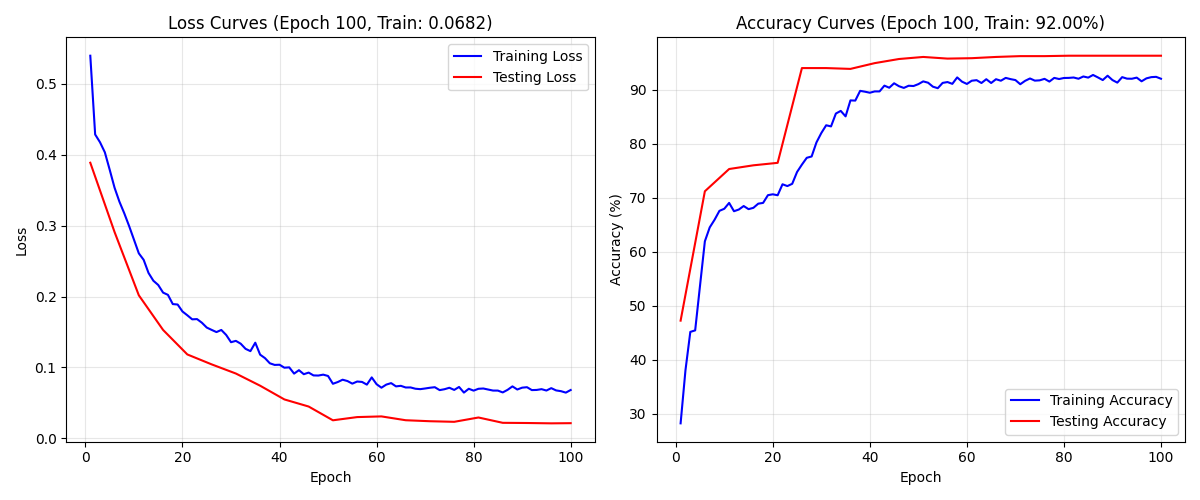
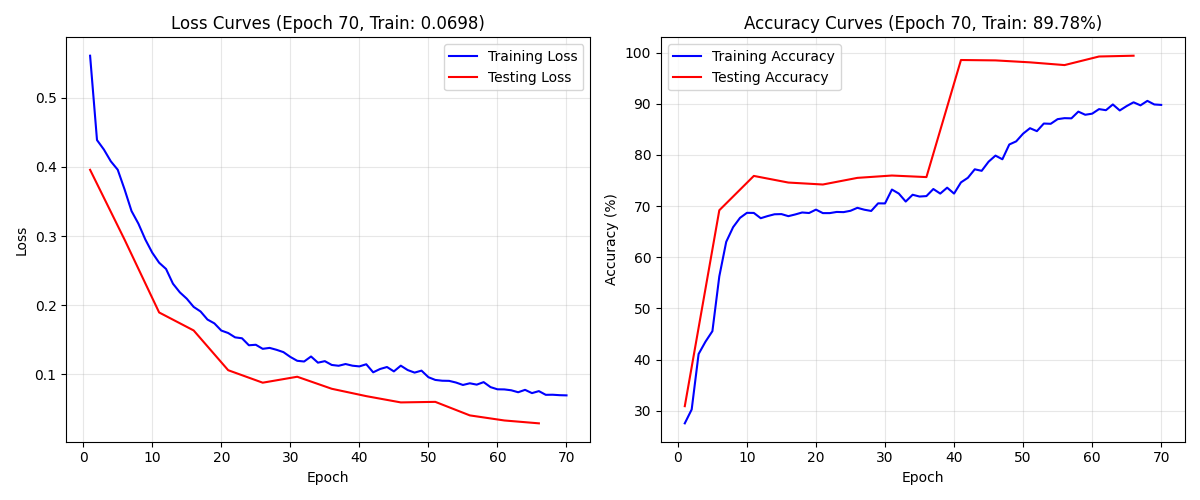
better sample selection, 99% test accuracy

diff --git a/mri-classification.py b/mri-classification.py
@@ -694,22 +694,57 @@ def calculate_class_weights(dataset):
     
     return weights
 
+def get_class_samples(dataset, num_per_class=1):
+    """Select representative samples from each class in the dataset"""
+    class_samples = {}
+    class_counts = {}
+    
+    # Initialize counters for each class
+    for class_name in dataset.class_mapping.keys():
+        class_samples[class_name] = []
+        class_counts[class_name] = 0
+    
+    # Collect samples until we have enough from each class
+    for idx in range(len(dataset)):
+        image, label = dataset[idx]
+        
+        # Get class name from label
+        class_name = list(dataset.class_mapping.keys())[list(dataset.class_mapping.values()).index(label)]
+        
+        # If we need more samples from this class
+        if class_counts[class_name] < num_per_class:
+            class_samples[class_name].append((image, label))
+            class_counts[class_name] += 1
+        
+        # Exit if we have enough samples from all classes
+        if all(count >= num_per_class for count in class_counts.values()):
+            break
+    
+    # Flatten the samples list
+    samples = []
+    for class_name in class_samples:
+        samples.extend(class_samples[class_name])
+    
+    return samples
 
 def main():
     set_seed(42)
-    batch_size = 24  
+    batch_size = 32  
     device = torch.device('cuda' if torch.cuda.is_available() else 'cpu')
     print(f'Using device: {device}')
     
     # Create a dataset without normalization first
+    clip_hist_percent = 0.5
+    percentile_low = 1.0
+    percentile_high = 100.0 - percentile_low
     temp_dataset = MRI_Dataset(
         root_dir=R'C:\Users\Precision\Onus\Data\Brain-MRIs\Training', 
         transform=transforms.Compose([
             transforms.ToPILImage(),
             transforms.Resize((224,224)),
             transforms.ToTensor(),
-            AutomaticBrightnessAndContrast(clip_hist_percent=1),
-            IntensityClamp(percentile_low=1, percentile_high=99),
+            #AutomaticBrightnessAndContrast(clip_hist_percent=clip_hist_percent),
+            #IntensityClamp(percentile_low=percentile_low, percentile_high=percentile_high),
         ])
     )
 
@@ -723,8 +758,8 @@ def main():
         transforms.Resize((224,224)),
         transforms.RandomHorizontalFlip(),
         transforms.ToTensor(),
-        AutomaticBrightnessAndContrast(clip_hist_percent=1),
-        IntensityClamp(percentile_low=1, percentile_high=99),
+        #AutomaticBrightnessAndContrast(clip_hist_percent=clip_hist_percent),
+        #IntensityClamp(percentile_low=percentile_low, percentile_high=percentile_high),
         transforms.Normalize(mean=mri_mean, std=mri_std)
     ])
     # No augumentation, only Normalize for testing
@@ -732,8 +767,8 @@ def main():
         transforms.ToPILImage(),
         transforms.Resize((224,224)),
         transforms.ToTensor(),
-        AutomaticBrightnessAndContrast(clip_hist_percent=1),
-        IntensityClamp(percentile_low=1, percentile_high=99),
+        #AutomaticBrightnessAndContrast(clip_hist_percent=clip_hist_percent),
+        #IntensityClamp(percentile_low=percentile_low, percentile_high=percentile_high),
         transforms.Normalize(mean=mri_mean, std=mri_std)
     ])
 
@@ -791,8 +826,8 @@ def main():
     best_accuracy = 0
     
     # Select a few sample images for activation maps
-    sample_indices = [i * (len(test_dataset) // 8) for i in range(4)]  # 4 well-distributed samples
-    sample_images = [test_dataset[i] for i in sample_indices]
+    sample_images = get_class_samples(test_dataset)
+    print(f"Selected {len(sample_images)} samples for visualization, one from each class")
     
     for epoch in range(total_epochs):
         print(f'\nEpoch: {epoch+1}/{total_epochs}')
@@ -834,7 +869,7 @@ def main():
                 model, 
                 sample_images, 
                 device, 
-                list(train_dataset.class_mapping.keys()),
+                list(test_dataset.class_mapping.keys()),
                 mri_mean,
                 mri_std,
                 save_dir=f'visualizations'
